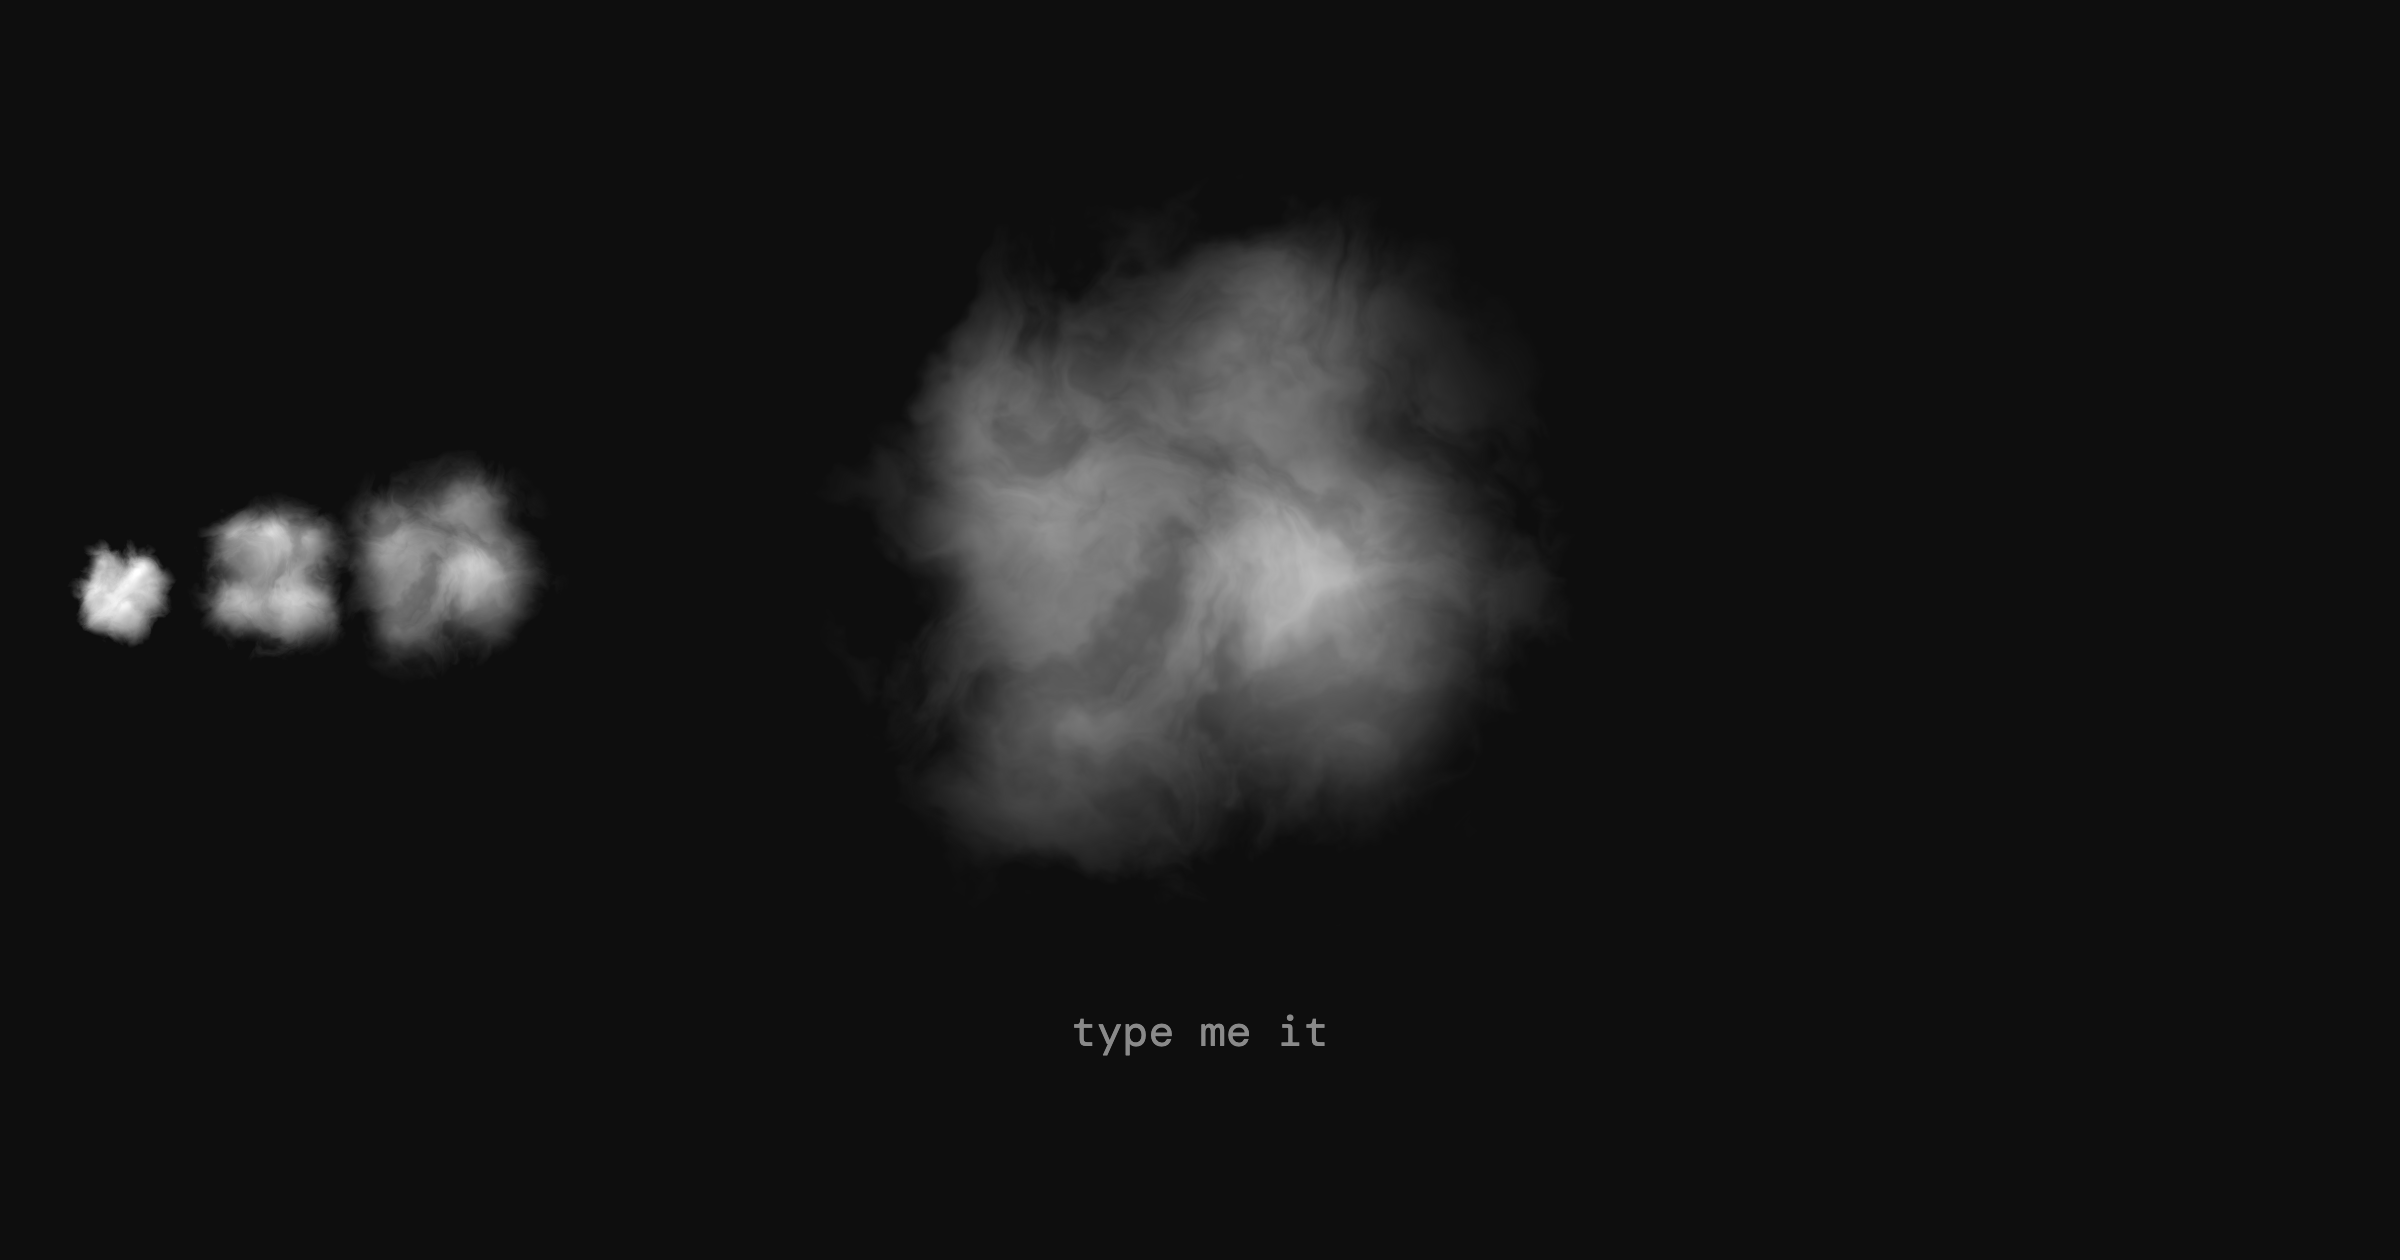
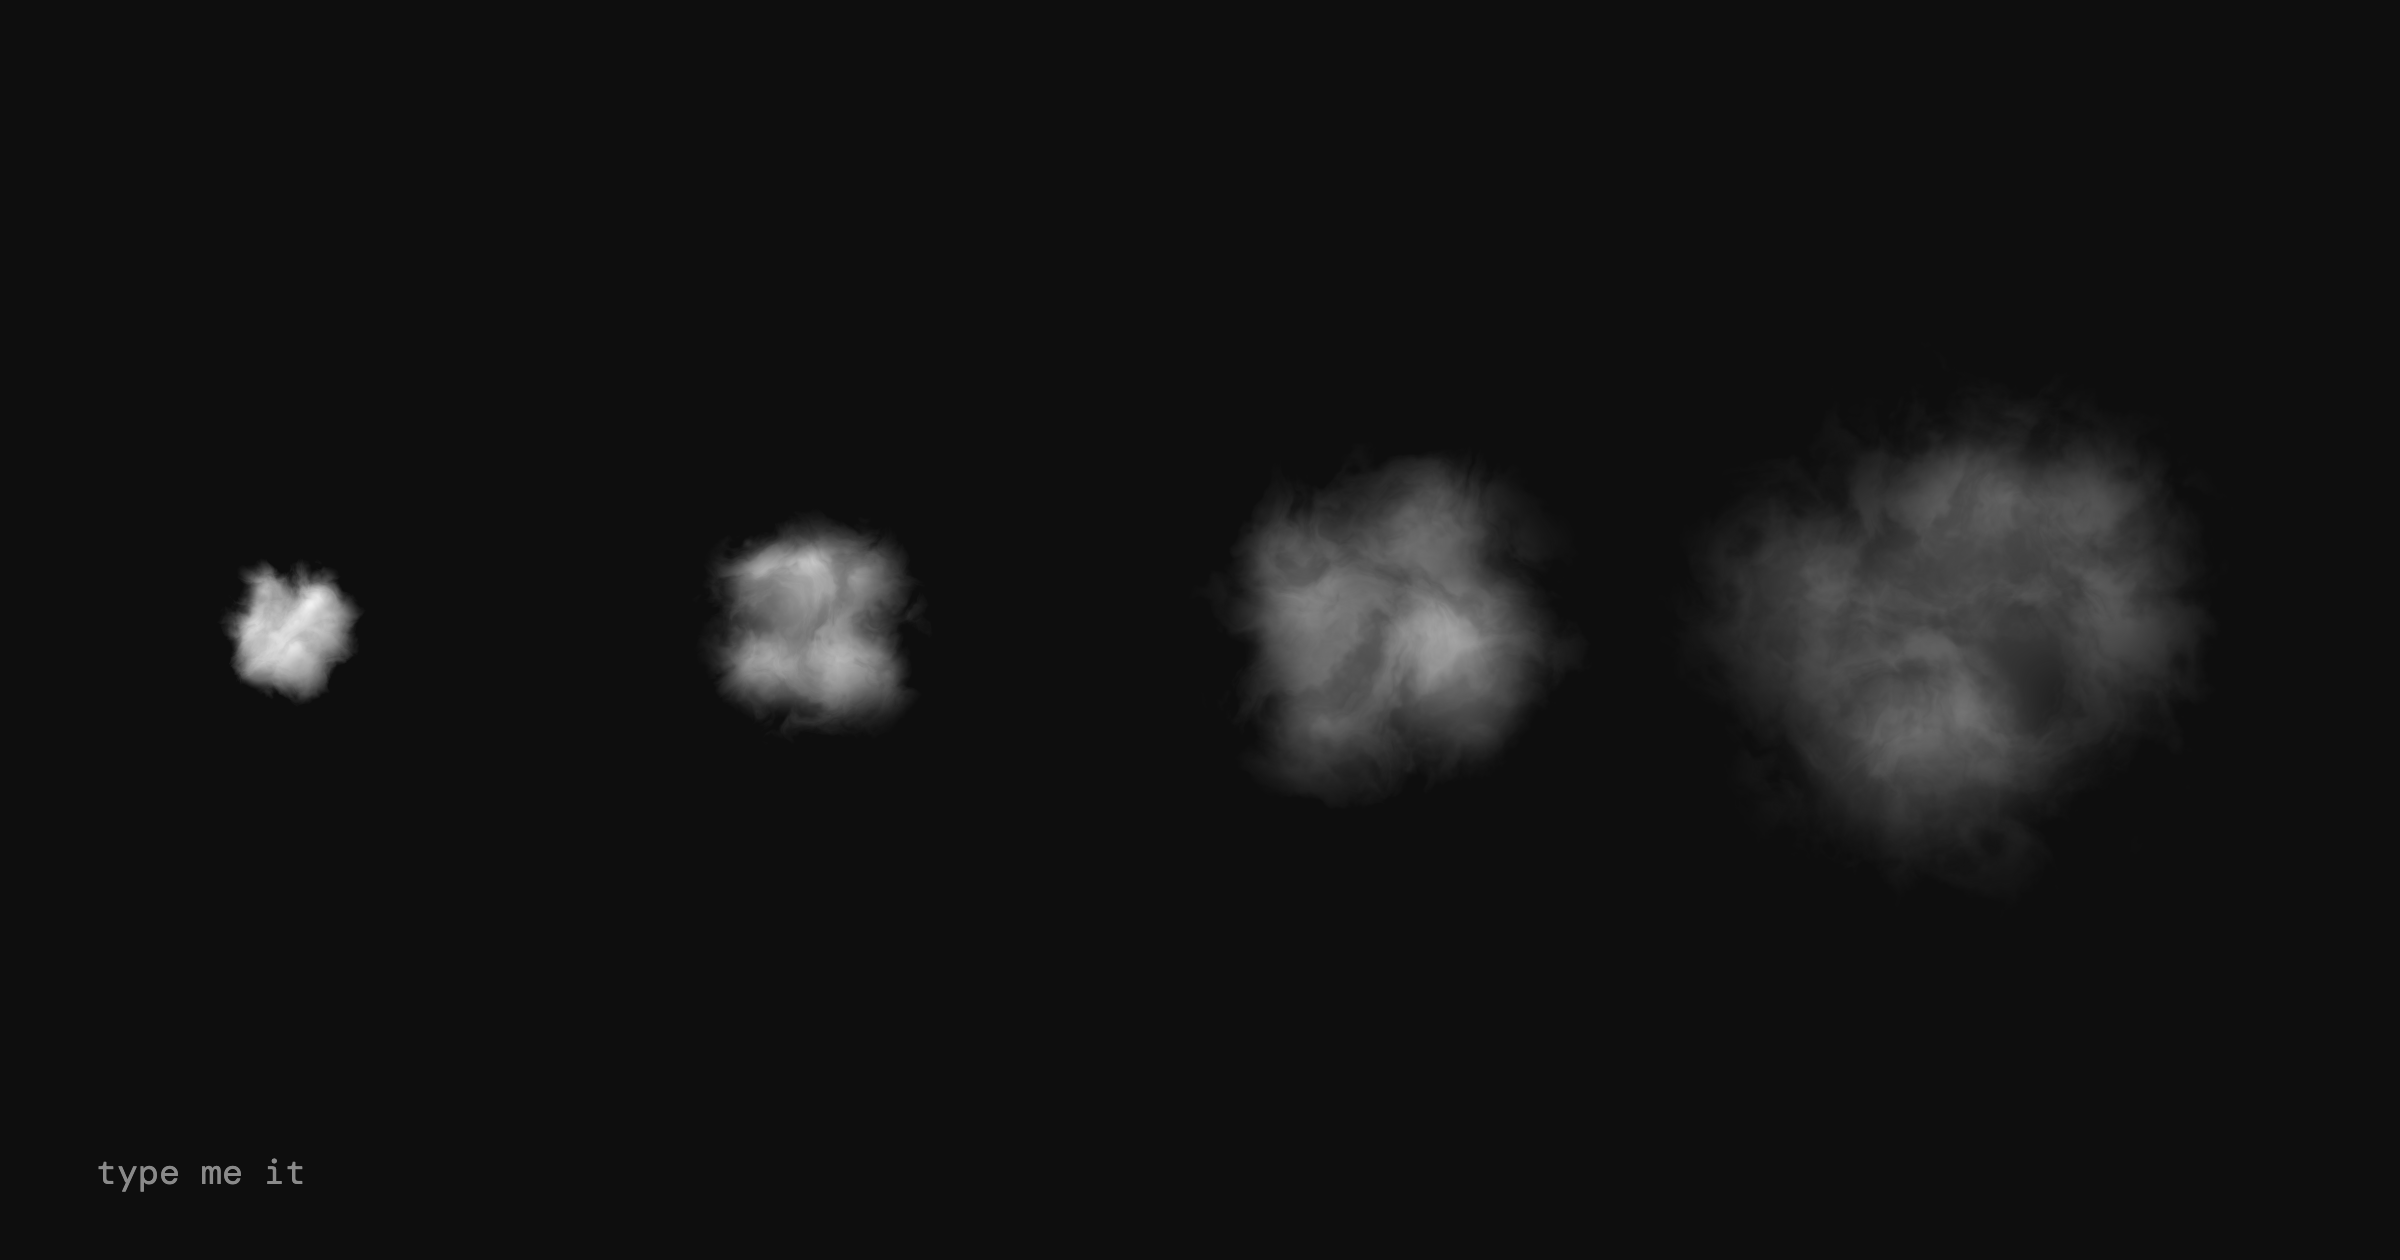
The link preview is the four-cloud strip again, evenly spaced
Landscape is what nearly every preview shows, so the sequence is spaced
across the full width and the square fallbacks crop it.

diff --git a/Scripts/og/render.html b/Scripts/og/render.html
@@ -55,11 +55,10 @@ document.fonts.load(`${Math.round(H*0.028)}px "DM Mono"`).then(() => document.fo
   cx.fillStyle = '#0e0e0e'; cx.fillRect(0, 0, W, H);
   cx.drawImage(glc, 0, 0);
   if (TEXT) {
-    const px = Math.round(H * 0.034);
+    const px = Math.round(H * 0.028);
     cx.font = `${px}px "DM Mono", ui-monospace, Menlo, monospace`;
-    cx.fillStyle = '#8a8a8a'; cx.textBaseline = 'alphabetic'; cx.textAlign = 'center';
-    // Under the cloud, on the centre line, so a square crop keeps it.
-    cx.fillText(TEXT, Math.round(W / 2), Math.round(H * num('ty', 0.86)));
+    cx.fillStyle = '#8a8a8a'; cx.textBaseline = 'alphabetic';
+    cx.fillText(TEXT, Math.round(W * 0.04), Math.round(H * 0.94));
   }
   out.toBlob(b => b.arrayBuffer().then(a => fetch('/save?name=' + (P.get('name') || 'og') + '.png', {method: 'POST', body: a})
     .then(r => r.text()).then(t => { document.getElementById('status').textContent = 'SAVED ' + t; document.title = 'SAVED'; })), 'image/png');
